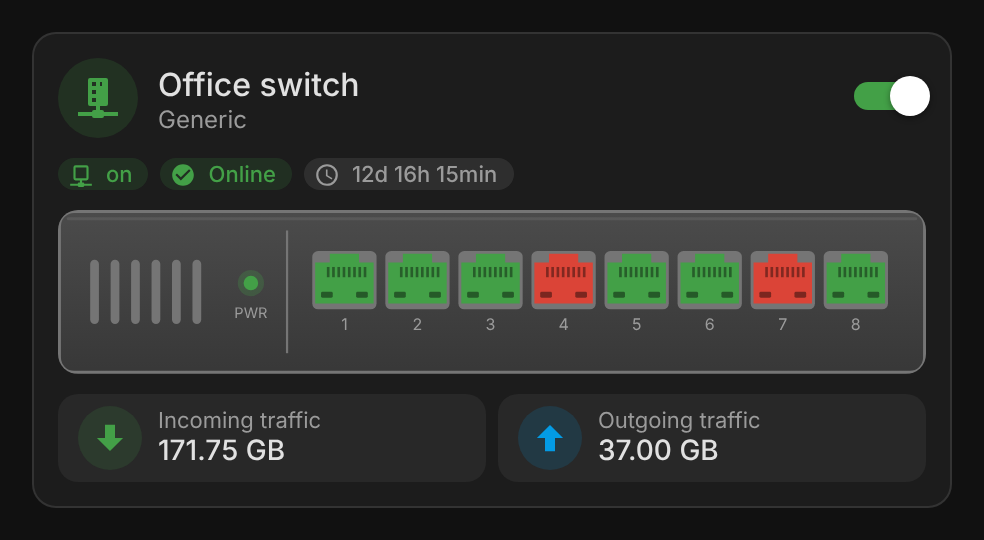
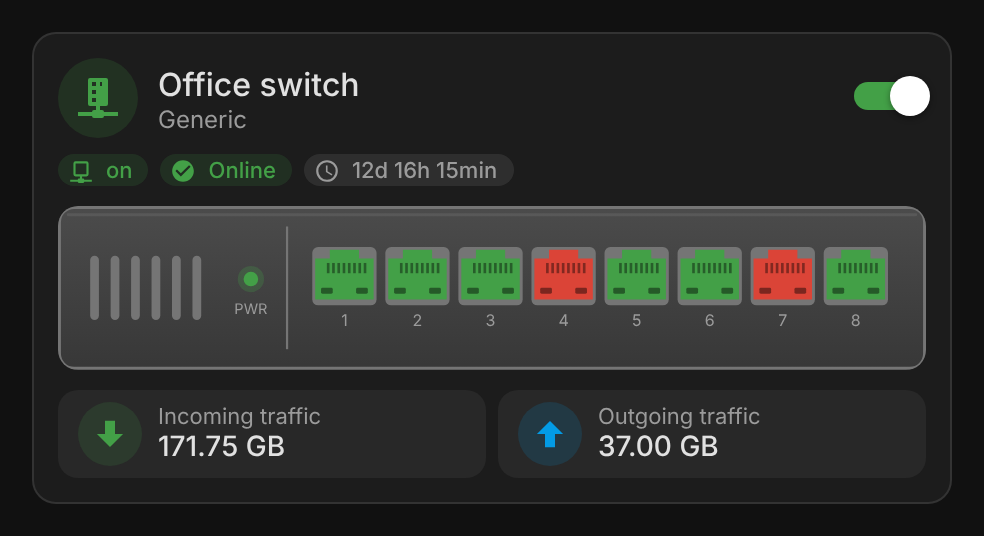
Start the body 8px under the header
Header geometry: the icon sits 12px from the card's top and left edges
and the header's right edge keeps its 12px (8px for an icon-only
button); the first body element now starts 8px under the header instead
of 10px.

Claude-Session: https://claude.ai/code/session_01NW8HrjdUvTF3zwsaKKxQNw

diff --git a/src/ha-switch-card.js b/src/ha-switch-card.js
@@ -564,7 +564,8 @@ class HaSwitchCard extends HTMLElement {
       }
       ha-card { padding: 12px; display: flex; flex-direction: column; gap: 10px; }
       [data-entity], [data-url] { cursor: pointer; }
-      .header { display: grid; grid-template-columns: auto 1fr auto; align-items: center; gap: 10px; }
+      /* The body starts 8px under the header (the card gap is 10px between body blocks). */
+      .header { display: grid; grid-template-columns: auto 1fr auto; align-items: center; gap: 10px; margin-bottom: -2px; }
       .ic {
         --size: 32px;
         width: var(--size); height: var(--size); border-radius: 50%;

diff --git a/CHANGELOG.md b/CHANGELOG.md
@@ -5,6 +5,7 @@
 ### Changes
 - Header icon badge sized like the other cards: 40 px round badge, 24 px icon, 16 % tint of the status color.
 - `online_state` / `idle_state` no longer default to the French `En ligne` / `Inactif` only: unset, a status of `Online` or `En ligne` (`Idle` or `Inactif`) matches, case-insensitively, so existing configs keep working and English sensors need no setting. A set value is also compared case-insensitively. The status chip shows Online / Idle in the dashboard language (English or French) instead of the raw sensor value; other states are shown as Home Assistant formats them.
+- Header geometry: the chips start 8 px under the header (was 10 px); icon badge 12 px from the top and left edges, power toggle at the right edge as before.
 
 ## 1.4.0
 
